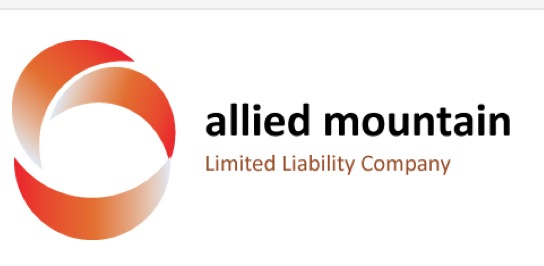
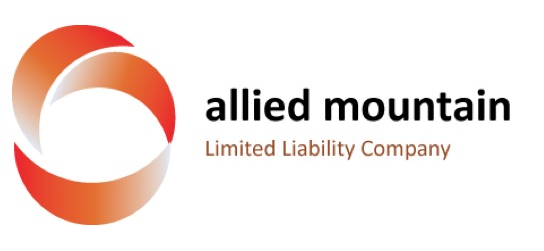
changes to design template and other minor things

diff --git a/pms/main/templates/main/order.html b/pms/main/templates/main/order.html
@@ -9,16 +9,16 @@
                     <div class="row">
                         <div class="col-lg-2">
                                 {% bootstrap_field purchase_form.orderDate %} 
+                                {% bootstrap_field purchase_form.CID %}
                         </div>
                         <div class="col-lg-2">
                                 {% bootstrap_field purchase_form.productName %}
-                                {% bootstrap_field quote_form.QPrice %}
                                 {% bootstrap_field purchase_form.productDescription %}
-                                {% bootstrap_field purchase_form.quantity %}   
+                                {% bootstrap_field quote_form.Supplier %}                       
                         </div>
                         <div class="col-lg-3">
-                                {% bootstrap_field purchase_form.CID %}
-                                {% bootstrap_field quote_form.Supplier %}                       
+                                {% bootstrap_field quote_form.QPrice %}
+                                {% bootstrap_field purchase_form.quantity %}   
                                 {% bootstrap_field quote_form.QLink %}
                         </div>
                         <div class="col-lg-3">
@@ -31,9 +31,9 @@
                                 {% bootstrap_field purchase_form.city %}
                                 {% bootstrap_field purchase_form.state %}
                                 {% bootstrap_field purchase_form.zipCode %}
-                                <br><br>
+                                <br>
                                 <button type="reset" value="Clear" class="btn btn-danger">Reset</button>
-                                <button type="submit" value="Submit" class="btn btn-primary">Submit</button>
+                                <button type="submit" value="Submit" class="btn btn-primary" style="float: right;">Submit</button>
                         </div>
                     </div>
                     <!--{% bootstrap_form purchase_form %}

diff --git a/pms/main/templates/main/quotes.html b/pms/main/templates/main/quotes.html
@@ -7,23 +7,22 @@
                 <form id="quotes-form" method="POST" action={% url 'quotes' %}>
                     {% csrf_token %}
                     <div class="row">
-                        <div class="col-lg-4">
+                        <div class="col-lg-6">
                                 <h3>Quote 2</h3>
                                 {% bootstrap_field quote_form2.Supplier %}
-                                {% bootstrap_field quote_form2.QPrice %}
                                 {% bootstrap_field quote_form2.QLink %}
+                                {% bootstrap_field quote_form2.QPrice %}
                         </div>           
-                        <div class="col-lg-4">
+                        <div class="col-lg-6" style="float: right;">
                                 <h3>Quote 3</h3>             
                                 {% bootstrap_field quote_form3.Supplier %}
-                                {% bootstrap_field quote_form3.QPrice %}
                                 {% bootstrap_field quote_form3.QLink %}
+                                {% bootstrap_field quote_form3.QPrice %}
+                                <button type="submit" value="Submit" class="btn btn-primary" style="float: right;">Submit</button>
+                                <button type="reset" value="Clear" class="btn btn-danger" style="float: right; margin-right: 12px;">Reset</button>
                         </div>
-                        <div class="col-lg-4">
+                        <div class="col-lg-1">
 
-                                <br><br><br><br><br><br><br><br><br><br><br><br><br>
-                                <button type="reset" value="Clear" class="btn btn-primary">Reset</button>
-                                <button type="submit" value="Submit" class="btn btn-primary">Submit</button>
                         </div>
                     </div>
                 </form>

diff --git a/pms/templates/header.html b/pms/templates/header.html
@@ -1,18 +1,26 @@
 {% load staticfiles %}
+{% load static %}
+
+{% if user.is_authenticated %}
 
 <div class="jumbotron jumbotron-fluid" style="padding-bottom: 0;">
   <div class="container" style="color: black;">
       <div class="row">
-          <!-- <div class="col-2" style="background: white;">
-              <img src="{% static 'images/AM.png' %}" style="width: 100%;" alt="Allied Mountain Logo"/>
-          </div> -->
+          <div class="col-2" style="background: rgba(59, 58, 58, 0);">
+              <img src="{% static 'images/logo.jpg' %}" style="width:60%; float: right;" alt="Allied Mountain Logo"/>
+          </div>
           <div class="col-10">
               <h1 class="display-4">Allied Mountain PMS</h1>
               <p class="lead">Track and place order requests</p>
+
           </div>
       </div>
   </div> 
-  {% if user.is_authenticated %}
+  <p class="text-dark" style="float: right; width:60; margin-right: 30px;">
+      Welcome, {{ user.get_short_name }}!  
+  </p>
+<br>
+<br>
   <nav class="navbar navbar-expand-lg navbar-light bg-light">
     <div class="collapse navbar-collapse" id="navbarSupportedContent">
       <ul class="navbar-nav mr-auto">
@@ -51,9 +59,7 @@
       <!--<div>
         <button id="logout" class="btn btn-warning"><a href="/logout">Sign Out</a></button>
       </div>-->
-      <a href="/logout" class="btn btn-warning btn-md">
-          <span class="glyphicon glyphicon-log-out"></span> Sign out
-        </a>
+      <a href="/logout" class="btn btn-warning" style="margin-left: 15px">Sign out</a>
     </div>
   </nav>
   {% endif %}

diff --git a/pms/main/templates/main/home.html b/pms/main/templates/main/home.html
@@ -5,7 +5,9 @@
     <div class="container">
         <div class="row">
             <div class="col-12">
-            </div>
-        </div>
+                    <a href="https://www.accuweather.com/en/us/colorado-springs-co/80903/current-weather/327351" class="aw-widget-legal">
+                        </a><div id="awtd1523076578678" class="aw-widget-36hour" align="center" data-locationkey="327351" data-unit="f" data-language="en-us" data-useip="false" data-uid="awtd1523076578678" data-editlocation="true"></div><script type="text/javascript" src="https://oap.accuweather.com/launch.js" ></script>            </div>
+<!--                         <iframe src="https://weatherfor.us/widget?" scrolling="no" frameborder="0" allowtransparency="true" style="background: transparent; margin-left: 90px; width: 720px; height: 250px; overflow: hidden;"></iframe>
+ -->        </div>
     </div>
 {% endblock content %}

diff --git a/pms/templates/registration/login.html b/pms/templates/registration/login.html
@@ -5,15 +5,15 @@
 {% block title %}Login{% endblock %}
 
 {% block content %}
-<div class="container">
+<div class="container" style="margin-top: 80px;">
   <div class="row">
-    <div id="login" class="col-3 ml-auto mr-auto">
+    <div id="login" class="col-4 ml-auto mr-auto">
       <form method="post" align='center'>
         {% csrf_token %}
         <div>
-            <img src="{% static 'images/AM.png' %}" style="width: 40%;" alt="Allied Mountain Logo"/>
+            <img src="{% static 'images/AM.png' %}" style="width: 100%;" alt="Allied Mountain Logo"/>
           </div>
-        <h2>Login</h2>
+        <h2 style="margin-bottom: 20px">Login</h2>
         {{ form.as_p }}
         <button class="btn btn-primary" type="submit">Login</button>
       </form>

diff --git a/pms/main/models.py b/pms/main/models.py
@@ -57,6 +57,13 @@ class Order(models.Model):
     __original_approved_value = False
     def __init__(self, *args, **kwargs):
         super(Order, self).__init__(*args, **kwargs)
+    def delete(self):
+        contract_type = Contract.objects.get(CName=self.CID)
+        if self.dateApproved != None:
+            contract_type.remainingBudget = contract_type.remainingBudget + self.total
+            contract_type.save()
+        super(Order, self).delete()
+
     def save(self, force_insert=False, force_update=False, *args, **kwargs):
         req_user = User.objects.get(username=self.EID) #gets the users information that requested the order 
         contract_type = Contract.objects.get(CName=self.CID) #gets the contract that the order belongs to
@@ -67,7 +74,7 @@ class Order(models.Model):
                 self.dateApproved = None #resets the dateApproved field to empty
             send_mail(
                 'PURCHASE ORDER #{} CONFIRMATION'.format(self.OID),
-                'Hi {},\n\nYour recent purchase order #{} request for item: "{}" has been denied.\n\nAM Purchase Management System'.format(req_user.first_name, self.OID, self.productName),
+                'Hi {},\n\nYour recent purchase order #{} request for item: "{}" has been denied.\n\n\nAM Purchase Management System'.format(req_user.first_name, self.OID, self.productName),
                 'yee.camero23@gmail.com', #Make info@system.com email
                 [req_user.email], #gets the email from the user that requested the item
                 fail_silently=False,
@@ -77,8 +84,8 @@ class Order(models.Model):
             contract_type.save() #saves the contract model to show the new remainingBudget
             self.dateApproved = datetime.now() #sets the approved date to now
             send_mail(
-                'PURCHASE ORDER {} CONFIRMATION'.format(self.OID),
-                'Hi {},\n\nYour recent purchase order #{} request for item: "{}" has been Approved.\n\n\nAM Purchase Management System'.format(req_user.first_name, self.OID, self.productName),
+                'PURCHASE ORDER #{} CONFIRMATION'.format(self.OID),
+                'Hi {},\n\nYour recent purchase order #{} request for item: "{}" has been approved.\n\n\nAM Purchase Management System'.format(req_user.first_name, self.OID, self.productName),
                 'yee.camero23@gmail.com', #Make info@system.com email
                 [req_user.email],
                 fail_silently=False,

diff --git a/pms/main/admin.py b/pms/main/admin.py
@@ -29,7 +29,7 @@ class OrderAdmin(admin.ModelAdmin):
         return False
 
 class QuoteAdmin(admin.ModelAdmin):
-    list_display = ['OID', 'QPrice', 'Supplier']
+    list_display = ['QID', 'Supplier', 'QPrice', 'OID']
     def has_add_permission(self, request):
         return False
 
